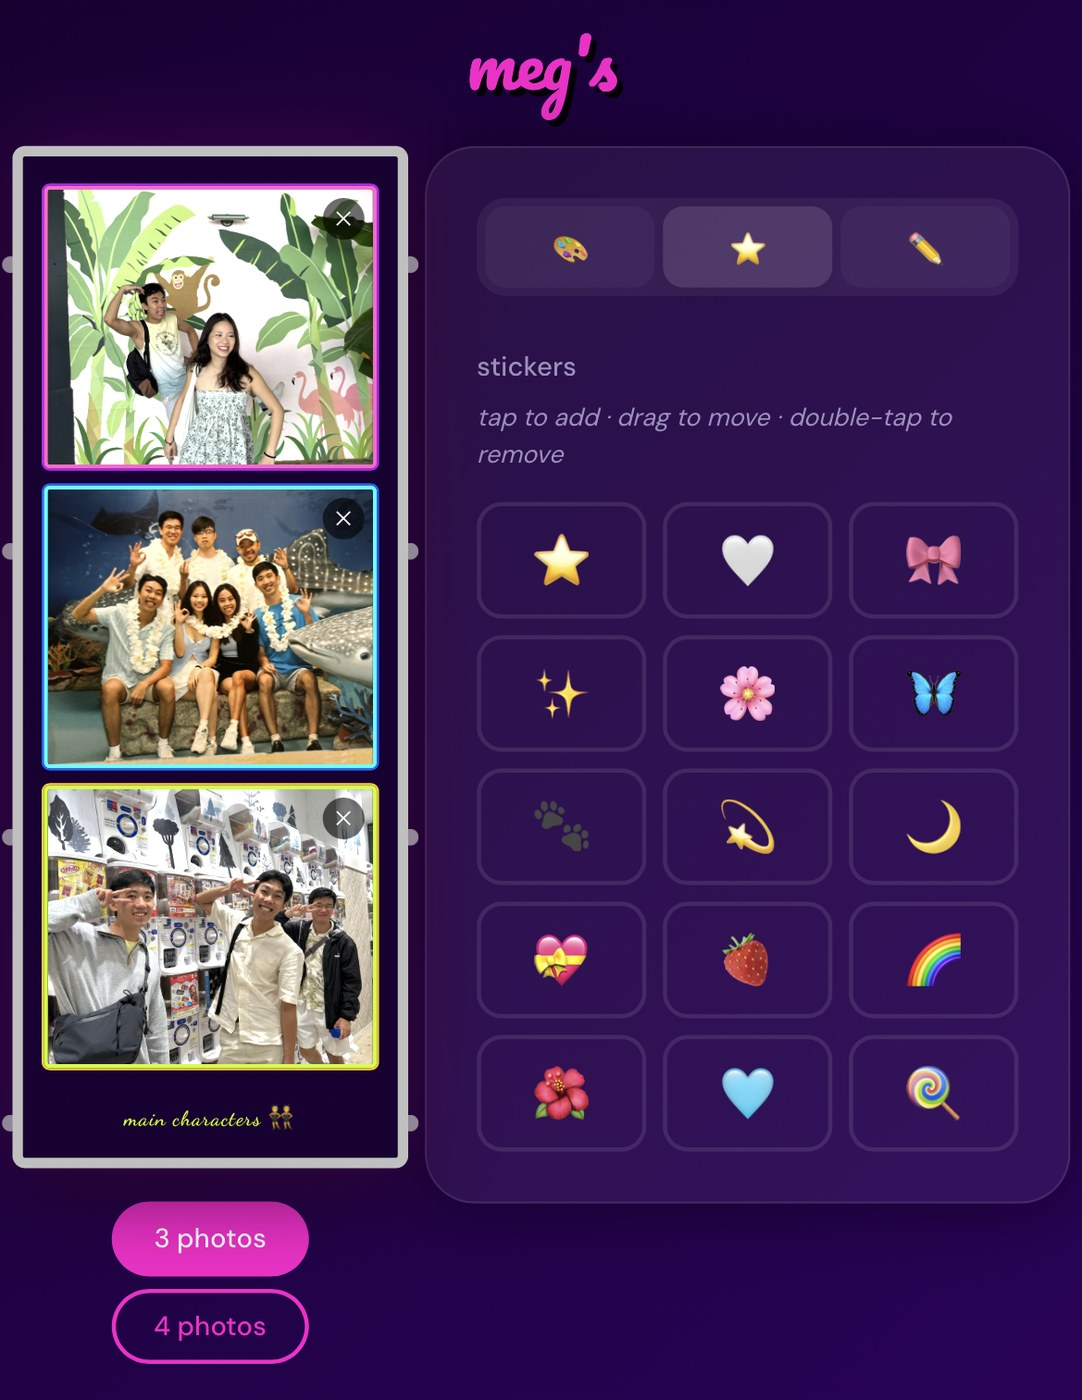
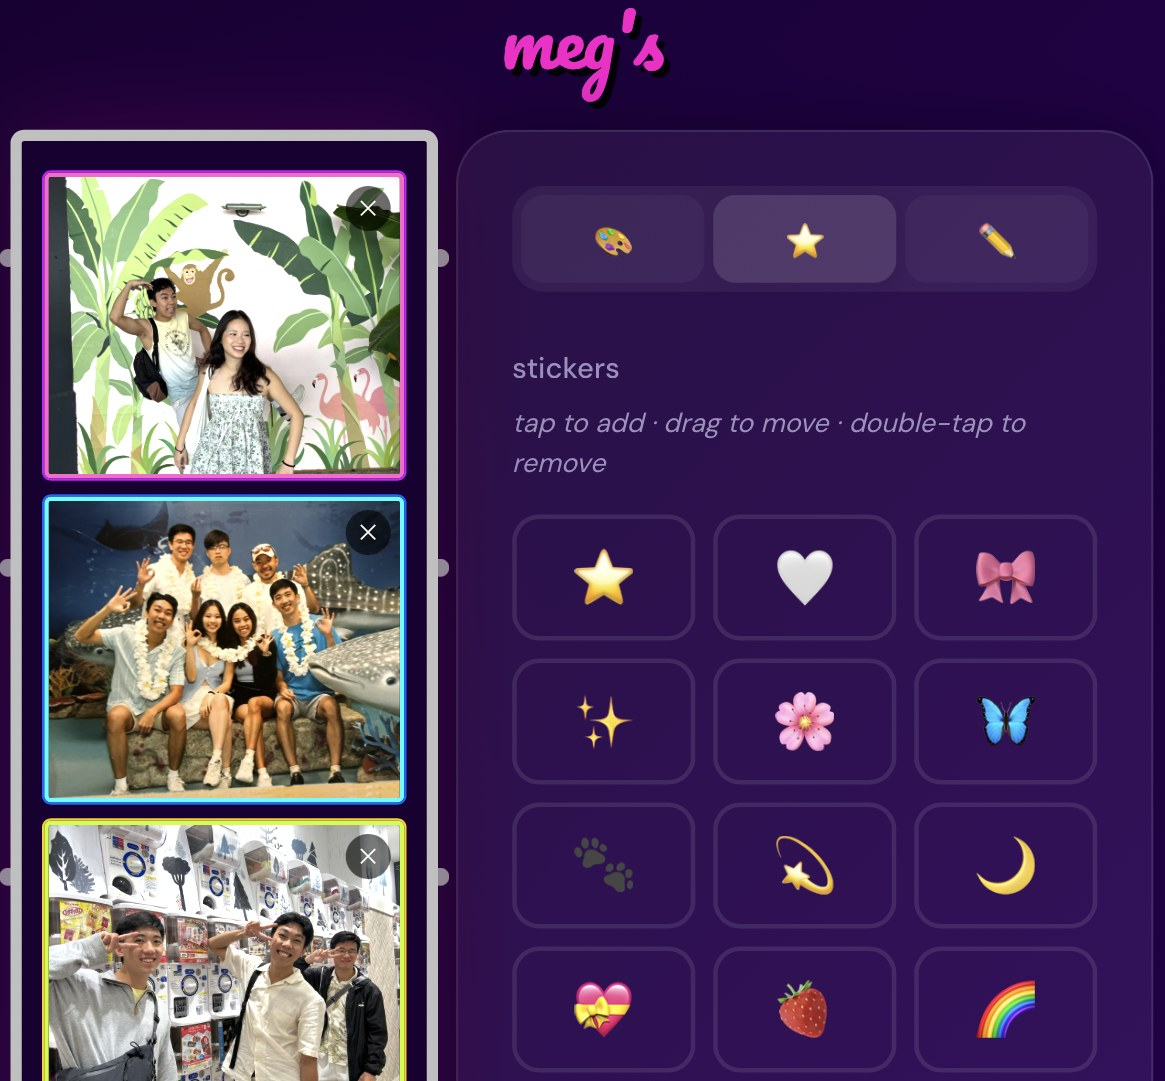
Process the new photobooth upload with orientation applied
Converted your re-uploaded fun-photobooth.png (1554 KB) to JPEG (174 KB),
running it through exif_transpose like the others. Its orientation tag was
already 1, so no rotation was needed; the saving is format alone.

Claude-Session: https://claude.ai/code/session_01PKzxrkugHbYKHm8VVTS6nv

diff --git a/index.html b/index.html
@@ -170,7 +170,7 @@
                   for <a class="fun-card" href="..." target="_blank" rel="noopener"> -->
           <a class="fun-card" href="https://megsphotobooth.netlify.app/" target="_blank" rel="noopener">
             <!-- ✏ REPLACE IMAGE: overwrite images/fun-photobooth.jpg -->
-            <img src="images/fun-photobooth.jpg" width="1082" height="1400" loading="lazy" alt="Screenshot of the online photobooth">
+            <img src="images/fun-photobooth.jpg" width="1165" height="1081" loading="lazy" alt="Screenshot of the online photobooth">
             <div class="fun-card-text">
               <h3>Vibe code project #1: Photobooth 📸</h3>
               <p>An online photobooth I made, filled with different themes and emoji
